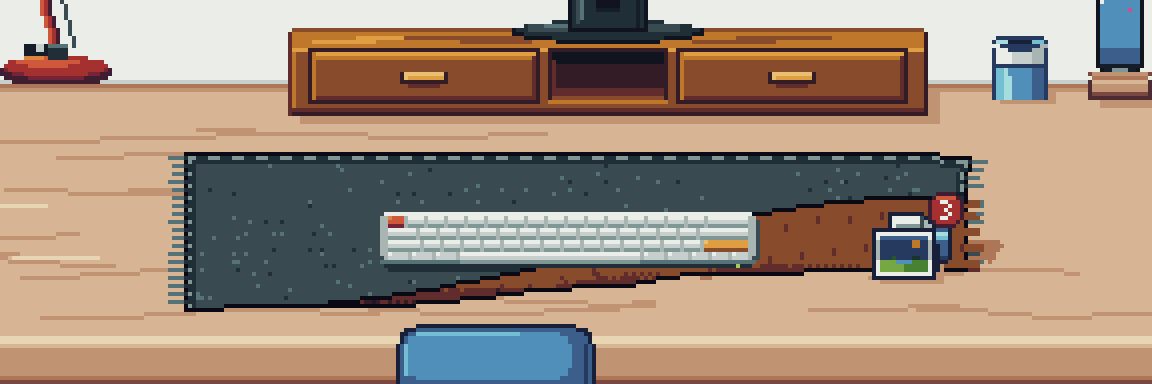
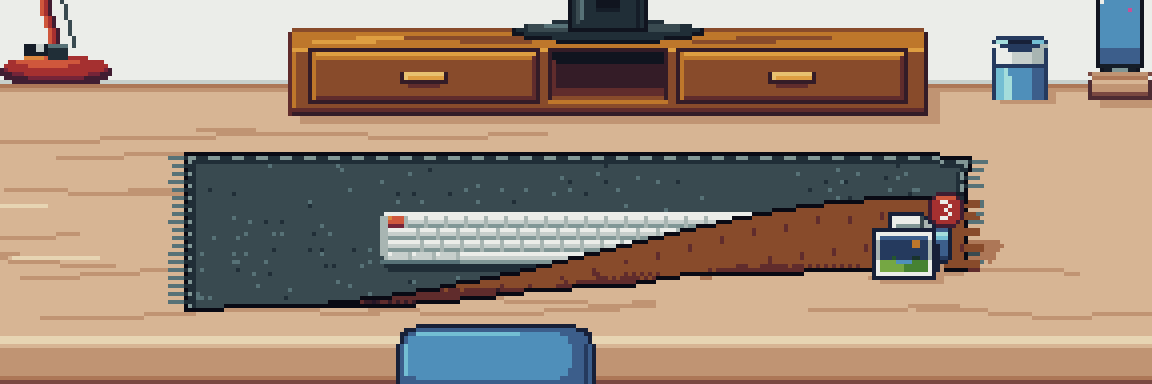
Wave 6 integration: actions pinned on Node 24, docs cover hardening and polish, toast fits its band, media regenerated
- Pin actions/checkout v5.1.0, actions/upload-artifact v7.0.2 (was v4 on the deprecated Node 20) and
  actions/attest-build-provenance v4.2.2 by commit SHA in ci.yml and release.yml.
- README (EN/KO) and CHANGELOG: locked files stay put, Settings > Leftover copies among the explicit file
  actions, Reduce Motion's still tosses and AV logo, the exFAT limit, the tall-display room, the turned keyboard
  and the template menu bar icon.
- The leftover-copies toast is shortened to "Interrupted copy left files. See Settings." so it fits the 232-px
  toast band (KoreanFitTests).
- docs/media regenerated with make gif from the integrated tree.
- Erratum 27 records the above.

Changed region(s): [[0.4688, 0.5625, 0.6875, 0.7188]]

diff --git a/Sources/DeskCore/Text/L10nTable.swift b/Sources/DeskCore/Text/L10nTable.swift
@@ -384,7 +384,7 @@ public enum L10nKey: String, CaseIterable, Sendable {
         // MARK: harden
         .toastFileLocked: p("It's locked, so it stayed. ⌥ copies it.", "잠겨 있어서 그대로 뒀어요. ⌥로 복사해요."),
         .toastCopiedInstead: p("Copied in; the original stayed put.", "복사해 왔어요. 원본은 그대로예요."),
-        .toastLeftoverCopies: p("An interrupted copy left files. See Settings.", "중단된 복사의 파일이 남았어요. 설정을 보세요."),
+        .toastLeftoverCopies: p("Interrupted copy left files. See Settings.", "중단된 복사의 파일이 남았어요. 설정을 보세요."),
         .leftoversTitle: p("Leftover copies", "남은 복사본"),
         .leftoversOne: p("%d hidden folder from an interrupted copy is in the desk folder.",
                          "중단된 복사로 생긴 숨은 폴더 %d개가 책상 폴더에 있어요."),

diff --git a/Tests/DeskCoreTests/HardeningCoreTests.swift b/Tests/DeskCoreTests/HardeningCoreTests.swift
@@ -96,7 +96,7 @@ struct HardeningCoreTests {
         let both = FileReport(kind: .importItems, count: 2, problems: [.notPermitted], done: .copiedInstead)
         #expect(both.toast == .someCopiedInstead, "a move that came in as a copy is never left unsaid")
         let english = ["It's locked, so it stayed. ⌥ copies it.", "Copied in; the original stayed put.",
-                       "An interrupted copy left files. See Settings.", "Some were locked, so they stayed.",
+                       "Interrupted copy left files. See Settings.", "Some were locked, so they stayed.",
                        "Some came in as copies; the rest stayed.", "Copied in, but it can't be undone.",
                        "No leftover copies now."]
         for e in english {

diff --git a/Sources/DeskScene/UI/Toast.swift b/Sources/DeskScene/UI/Toast.swift
@@ -37,7 +37,7 @@ extension ToastKey {
         // MARK: harden
         case .fileLocked: "It's locked, so it stayed. ⌥ copies it."
         case .copiedInstead: "Copied in; the original stayed put."
-        case .leftoverCopies: "An interrupted copy left files. See Settings."
+        case .leftoverCopies: "Interrupted copy left files. See Settings."
         case .someLocked: "Some were locked, so they stayed."
         case .someCopiedInstead: "Some came in as copies; the rest stayed."
         case .copiedNoUndo: "Copied in, but it can't be undone."

diff --git a/CHANGELOG.md b/CHANGELOG.md
@@ -13,13 +13,15 @@ The first release: milestones M0–M13 of [docs/DESIGN.md](docs/DESIGN.md).
 - **The room.** A 512×320 pixel-art desk room drawn at a whole-number scale for each display (Chunky, Normal or
   Fine pixels), extended to fill any screen: window and sky, wall clock, calendar, plant, lamp, monitor on a riser,
   phone stand, pen cup, drive hub, desk mat with keyboard, brush, chair, filing cabinet and wastebasket. Every pixel
-  is one of the 46 Apollo colours, with no translucency. Text is Galmuri9, Korean included.
+  is one of the 46 Apollo colours, with no translucency. Text is Galmuri9, Korean included. Tall and portrait
+  displays get a ceiling with beams and a lamp, an upper shelf, framed prints and hanging plants.
 - **Your Desktop on the monitor.** The Desktop folder (or another folder you choose) is mirrored live: new files print
   in, renames keep their place, removed files poof. Files are recognised by identity (volume and inode), so renames
   and safe-saves keep their spot, and a file that comes back within 7 days returns to where it was. Pixelated real
   icons and thumbnails, with hand-drawn kind icons first; iCloud placeholders are never downloaded.
 - **The monitor.** Pages of 45 files as HDMI inputs, an always-empty AV input, Clean Up By name, kind or date added,
-  marquee and ⌘-click selection, keyboard navigation. The power button collapses the picture like a CRT and hides
+  marquee and ⌘-click selection, keyboard navigation; resting a carried file on INPUT flips to the next page. The
+  power button collapses the picture like a CRT and hides
   everything; files arriving while it is off light an amber LED and a "+N" badge.
 - **Hiding places.** Two riser drawers and a cubby, a three-drawer filing cabinet (interlocked, folder tabs in the
   bottom drawer, blocked by the chair until it rolls aside), a phone that turns face down, a pen cup, and a
@@ -33,7 +35,7 @@ The first release: milestones M0–M13 of [docs/DESIGN.md](docs/DESIGN.md).
   peel an edge or corner to reveal and take files, fold it, tug corners or double-click an edge to smooth it, ⌥-drag
   to resize, turn or slide it. Files dropped on it, pushed in with the brush or swept by a sideways scroll go under and
   leave bumps that grow with the stack. Peek Under, List Items Under Mat, Size, Rotate, Reset Mat. A Flat mode keeps
-  the bumps without lifting.
+  the bumps without lifting. The keyboard on the mat turns with it.
 - **Clear the Desk.** One action: monitor off, phone face down, drawers shut, and the brush sweeps every loose pile
   and floor file under the mat ("TIDY!"); one undo puts it all back.
 - **Lighting.** Day, dusk and night follow the clock (or Lights ▸ Day, Night). Room light switch, desk lamp, and Lamp
@@ -44,13 +46,16 @@ The first release: milestones M0–M13 of [docs/DESIGN.md](docs/DESIGN.md).
 - **File actions, only when asked.** Move to Trash and Empty Wastebasket… (with a sheet listing the names) go to the
   macOS Trash; drop-in from Finder moves or copies files into the Desktop folder (never overwriting); drag-out hands
   files to other apps, Mail and the Dock's Trash; Eject from the drive hub. Every one is logged; all but Eject and
-  drags out to other apps can be undone with ⌘Z.
+  drags out to other apps can be undone with ⌘Z. A locked file is never moved in (⌥ copies it), and the hidden
+  folder an interrupted copy leaves behind is reported and listed under Settings ▸ Leftover copies, never removed
+  by itself.
 - **System integration.** Covers Finder's icons without changing Finder; menu bar item and bare-wall menu; walls on
   other displays (drops go to the monitor); Peek Desk (optional ⌃⌥⌘D shortcut, off by default) and Pause Desk;
   pausing for full-screen apps, sleep, lock, user switching, and optionally on battery; widget avoidance; Launch at
-  Login (off by default); Settings; Safe Mode (hold ⌥ at launch); App Translocation note; welcome window.
+  Login (off by default); Settings; Safe Mode (hold ⌥ at launch); App Translocation note; welcome window; a
+  template menu bar icon. A saved layout with impossible values is repaired when it loads.
 - **Accessibility and languages.** VoiceOver lists every file and control; Reduce Motion (following the system by
-  default) replaces shakes, flickers and arcs; English and Korean menus, cards, toasts, windows and settings.
+  default) replaces shakes, flickers and arcs and holds the AV logo still; English and Korean menus, cards, toasts, windows and settings.
 - **Packaging.** A universal (Apple silicon and Intel) app built with the Command Line Tools only, ad-hoc signed or
   with an optional free self-signed identity ([docs/SIGNING.md](docs/SIGNING.md)); GitHub Actions CI and a tagged
   release workflow with a SHA-256 checksum and a build provenance attestation.
@@ -68,6 +73,7 @@ The first release: milestones M0–M13 of [docs/DESIGN.md](docs/DESIGN.md).
   Downloads ([docs/SPIKES.md](docs/SPIKES.md)).
 - Clicking the wallpaper to reveal the desktop does not work over the desk; widgets stay above it.
 - A Finder desktop selection made before the desk covered it can still be trashed with ⌘⌫ in Finder.
+- A mirrored folder on an exFAT drive cannot take drops (exFAT lacks the no-overwrite rename); nothing changes.
 - The scene's own lettering is English only: tooltips, the NO SIGNAL logo, BONK, SWISH! and TIDY!.
 
 [0.1.0]: ../../releases/tag/v0.1.0

diff --git a/README.ko.md b/README.ko.md
@@ -73,8 +73,13 @@ Deskterior는 Dock 아이콘이 없습니다. 메뉴는 메뉴 막대의 작은 
   - Finder에서 파일을 책상에 끌어다 놓기(바탕화면 폴더로 옮겨지고, 다른 디스크에서 왔거나 ⌥를 누르고 있으면 복사)
   - 파일을 다른 앱으로 끌어내기(그 앱이 Finder에서 끌어 온 것과 똑같이 처리)
   - 드라이브 메뉴의 **추출**
+  - 설정 ▸ ‘남은 복사본’의 **휴지통으로 이동**(복사가 중간에 끊겼을 때만 나타납니다. 아래 참고)
 - **휴지통으로 옮길 뿐 지우지 않습니다.** Deskterior는 파일을 macOS 휴지통으로만 옮기고 절대 지우지 않습니다. 같은
   이름이 있으면 덮어쓰지 않고 " 2", " 3"…을 붙입니다.
+- **잠긴 파일은 그대로 둡니다.** 잠긴 파일을 책상에 끌어다 놓으면 바탕화면 폴더로 옮기지 않습니다(⌥를 누르고 있으면
+  대신 복사합니다). 복사 도중 앱을 종료하는 등으로 복사가 끊기면 숨은 `.deskterior-partial-…` 폴더가 바탕화면 폴더에
+  남습니다. Deskterior는 한 번 알려 주고 설정 ▸ ‘남은 복사본’에 보여 주지만(Finder에서 보기, 휴지통으로 이동) 스스로
+  지우지는 않습니다.
 - **실행 취소.** ⌘Z는 배치 변경과 Deskterior가 직접 한 파일 작업(휴지통으로 이동, 쓰레기통 비우기…, 책상에 끌어다
   놓기)을 되돌립니다. 휴지통에 넣은 파일은 책상의 원래 자리로 돌아오고, 끌어다 놓은 파일은 원래 있던 곳으로
   돌아갑니다(복사본은 휴지통으로). 추출과 다른 앱으로 끌어내기는 되돌릴 수 없습니다. macOS가 휴지통 접근을 막으면
@@ -133,7 +138,7 @@ gh attestation verify Deskterior-0.1.0.zip --repo OWNER/deskterior
 | 설정 | 선택지 | 기본값 |
 |---|---|---|
 | 조명 | 자동(시간에 따라), 낮, 밤, 스탠드만 | 자동 |
-| 동작 줄이기 | 시스템 설정 따르기, 항상, 안 함: 흔들림·깜빡임 없음, 브라운관이 오므라드는 대신 서서히 꺼짐, 매트가 평평하게 | 시스템 설정 따르기 |
+| 동작 줄이기 | 시스템 설정 따르기, 항상, 안 함: 흔들림·깜빡임 없음, 브라운관이 오므라드는 대신 서서히 꺼짐, 매트가 평평하게, 던진 파일이 날아가지 않고 바로 떨어짐, AV 로고가 멈춤 | 시스템 설정 따르기 |
 | 책상 매트 | 천(들리고, 접히고, 주름짐) 또는 평평하게(볼록한 자국만) | 천 |
 | 픽셀 크기 | 큼직하게, 보통, 촘촘하게 | 보통 |
 | 보여 줄 폴더 | 바탕화면 또는 다른 폴더(폴더 선택… / 바탕화면 쓰기) | 바탕화면 |
@@ -236,6 +241,9 @@ swift run Deskterior --windowed --desktop-folder "$FIX/desk" --state-dir "$FIX/s
   엿보기, 책상 일시 정지를 쓰세요.
 - 바탕화면 위젯은 책상보다 위에 있습니다. Deskterior는 위젯이 모니터나 서랍을 가리지 않게 방을 조금 옮겨 봅니다.
 - 배율 조정된 디스플레이 모드에서는 픽셀이 약간 흐릿합니다.
+- **exFAT** 드라이브에 있는 폴더를 책상으로 쓰면 끌어다 놓기와 그 실행 취소가 되지 않습니다. Deskterior가 모든
+  이동에 쓰는 ‘덮어쓰지 않는 이름 바꾸기’를 exFAT가 지원하지 않아서, 거절하고 아무것도 바꾸지 않습니다. FAT32와
+  APFS에서는 됩니다.
 - Finder의 바탕화면은 여전히 밑에 있습니다. 책상이 덮기 전에 Finder 바탕화면에서 아이콘을 선택해 두었다면 Finder에서
   ⌘⌫를 눌렀을 때 휴지통으로 갈 수 있습니다(Finder의 실행 취소로 되돌릴 수 있습니다).
 - v0.1에서는 장면 안의 글자가 한국어 설정에서도 영어로 나옵니다: 툴팁, NO SIGNAL 로고, BONK, SWISH!, TIDY!.

diff --git a/README.md b/README.md
@@ -75,9 +75,14 @@ Deskterior has no Dock icon. Its menu is the small pixel icon in the menu bar, o
   - dropping files from Finder onto the desk (moved into your Desktop folder; copied when they come from another
     disk, or when you hold ⌥);
   - dragging a file out to another app (that app does what it would do with a drag from Finder);
-  - **Eject** from a drive's menu.
+  - **Eject** from a drive's menu;
+  - **Move to Trash** under Settings ▸ Leftover copies, which appears only after an interrupted copy (below).
 - **Trash, never delete.** Deskterior moves files to the macOS Trash and never deletes anything. It never
   overwrites a file: a name that is taken gets " 2", " 3"…
+- **Locked files stay put.** A locked file dropped onto the desk is not moved into your Desktop folder (hold ⌥ to
+  copy it instead). If a copy is cut short, for example by quitting mid-copy, its hidden `.deskterior-partial-…`
+  folder stays in your Desktop folder: Deskterior tells you once and lists it under Settings ▸ Leftover copies
+  (Show in Finder, Move to Trash), but never removes it by itself.
 - **Undo.** ⌘Z undoes layout changes and Deskterior's own file actions (Move to Trash, Empty Wastebasket…, drops
   onto the desk): trashed files come back to the same spot on the desk, dropped files go back where they came from
   (copies go to the Trash). Eject and drags out to other apps cannot be undone. If macOS will not let Deskterior
@@ -139,7 +144,7 @@ Menu bar icon ▸ **Settings…**
 | Setting | Choices | Default |
 |---|---|---|
 | Lights | Auto (follows the time of day), Day, Night, Lamp Only | Auto |
-| Reduce motion | Follow System, Always, Never: no shakes or flickers, the CRT fades instead of collapsing, the mat lies flat | Follow System |
+| Reduce motion | Follow System, Always, Never: no shakes or flickers, the CRT fades instead of collapsing, the mat lies flat, tossed files land without flying, the AV logo holds still | Follow System |
 | Desk mat | Cloth (lifts, folds, creases) or Flat (bumps only) | Cloth |
 | Pixel size | Chunky, Normal, Fine | Normal |
 | Mirrored folder | Your Desktop, or another folder (Choose Folder… / Use Desktop) | Desktop |
@@ -244,6 +249,8 @@ More: [docs/DESIGN.md](docs/DESIGN.md) (the design), [docs/DEMOS.md](docs/DEMOS.
 - Desktop widgets stay above the desk; Deskterior shifts the room a little to keep them off the monitor and drawers
   when it can.
 - In scaled display modes the pixels are slightly soft.
+- A mirrored folder on an **exFAT** drive cannot take drops or undo them: exFAT does not support the no-overwrite
+  rename Deskterior uses for every move, so it refuses and changes nothing. FAT32 and APFS work.
 - Finder's own desktop is still there underneath. If Finder had icons selected on the desktop before Deskterior
   covered it, ⌘⌫ in Finder can still move them to the Trash (Finder's Undo puts them back).
 - The scene's own lettering is in English in v0.1, also with the Korean language setting: its tooltips, the

diff --git a/docs/SPIKES.md b/docs/SPIKES.md
@@ -117,7 +117,7 @@ defaults read com.apple.WindowManager StandardHideDesktopIcons 2>&1 | tee -a /tm
 | 15 | Open a full-screen app; sleep and wake; lock; fast-user-switch; turn on Low Power Mode. | The loop pauses (check Activity Monitor: ~0 % CPU) and resumes with no physics explosion. |
 | 16 | Peek Desk from the menu; turn on the ⌃⌥⌘D hotkey in Settings and use it; quit and relaunch holding ⌥. | Peek floats the desk with "× Done" (Esc ends it); the hotkey works only while on; ⌥ at launch opens Safe Mode. |
 | 17 | Look at System Settings ▸ General ▸ Login Items, then turn Launch at Login on in Settings; quit, update (`make install VERSION=0.1.1`, then `defaults read /Applications/Deskterior.app/Contents/Info CFBundleShortVersionString` prints 0.1.1), open it once, and log out and in. | Off by default (not listed); on shows "Login item added"; after the update it still launches at login. Turn it off again unless you want it (checked at the end). |
-| 18 | Quit from the menu; relaunch; then `kill -9 $(pgrep -x Deskterior)`. Optionally kill it during a long drop-in copy from an external drive and relaunch. | Quit and the crash both bring Finder's icons back at once. After a killed copy, either nothing is left (the copy staged outside the Desktop) or the toast "An interrupted copy left files. See Settings." appears once and Settings ▸ Leftover copies offers Show in Finder and Move to Trash; nothing is removed until you press it. |
+| 18 | Quit from the menu; relaunch; then `kill -9 $(pgrep -x Deskterior)`. Optionally kill it during a long drop-in copy from an external drive and relaunch. | Quit and the crash both bring Finder's icons back at once. After a killed copy, either nothing is left (the copy staged outside the Desktop) or the toast "Interrupted copy left files. See Settings." appears once and Settings ▸ Leftover copies offers Show in Finder and Move to Trash; nothing is removed until you press it. |
 | 19 | Turn on VoiceOver (⌘F5) over the desk; open Find Item and use it with the keyboard only. | Tokens and controls are read; the Inventory is fully keyboard-accessible. |
 | 20 | `make idle` (and `scripts/measure-idle.sh --exit-after 70`); `scripts/soak.sh --release` (1 hour); download the release zip in Safari and open it. | Idle ≤ 0.3 % CPU; the soak grows < 10 MB; the Open Anyway flow works as the README says. |
 | 21 | Settings ▸ Reduce Motion: On. Fling a token off the desk, drop onto a full wastebasket, click the basket and the pen cup, double-click the apron, switch to AV, press ⏻ twice. Then set it back. | No screen shake, jiggle or wobble; tosses land at once with a puff; the AV logo holds still; the CRT is a 2-frame fade. |

diff --git a/docs/DESIGN.md b/docs/DESIGN.md
@@ -408,7 +408,7 @@
     - **Leftover copies.** A `.deskterior-partial-<uuid>` staging folder (the in-desk fallback) cut short by a quit or a
       crash is never touched automatically. After the mirror's first snapshot (never before ⏻), the mirrored folder's top
       level is listed off the main thread (`PartialCopies.find`, read-only); leftovers are logged, toasted once per session
-      ("An interrupted copy left files. See Settings.") and listed in Settings ▸ Leftover copies with Show in Finder and
+      ("Interrupted copy left files. See Settings.") and listed in Settings ▸ Leftover copies with Show in Finder and
       Move to Trash. Only that button removes them: the session names the gesture (`withOrigin(.menuItem)` in
       AppDelegate.swift), `EffectRunner.trashLeftovers` mints the intent, and `FileOperator.trash` re-checks each
       folder's identity and refuses the staging folder of a copy still running (EBUSY). Running copies are listed
@@ -506,6 +506,17 @@
       brighter red, so at 16–32 px the body's top edge holds against a dark Dock and the monitor stands off the wall.
       Every shape of the 32-px artwork starts and ends on an even pixel, so the 16-px image macOS derives from the 64-px
       slot (a 4:1 average) is the hand-drawn 16-px art but for its rim.
+27. **Wave 6 glue (M13 + hardening + polish).** These refine §6's workflows and Errata 24–26.
+    - **Actions pinned.** Both workflows pin each action by commit SHA, on releases that run on Node 24:
+      `actions/checkout` v5.1.0, `actions/upload-artifact` v7.0.2 (v4 ran on the deprecated Node 20) and
+      `actions/attest-build-provenance` v4.2.2 (v2 wrapped a Node 20 `actions/attest`). §6's `checkout@v5` and
+      `attest-build-provenance@v2` are superseded; a bump changes the SHA and its version comment together.
+    - **Docs follow all three tracks.** README (English and Korean) and CHANGELOG also describe the hardening track's
+      locked-file refusal, Settings ▸ Leftover copies (listed among the explicit file actions), Reduce Motion's
+      still tosses and AV logo, and the exFAT limit, and the polish track's tall-display room, turned keyboard and
+      template menu bar icon.
+    - **Media.** `docs/media` is regenerated with `make gif` from the integrated tree, so the tour and stills show the
+      shipped build (for example the mat drawn over the keyboard while it is peeled).
 
 ---
 
